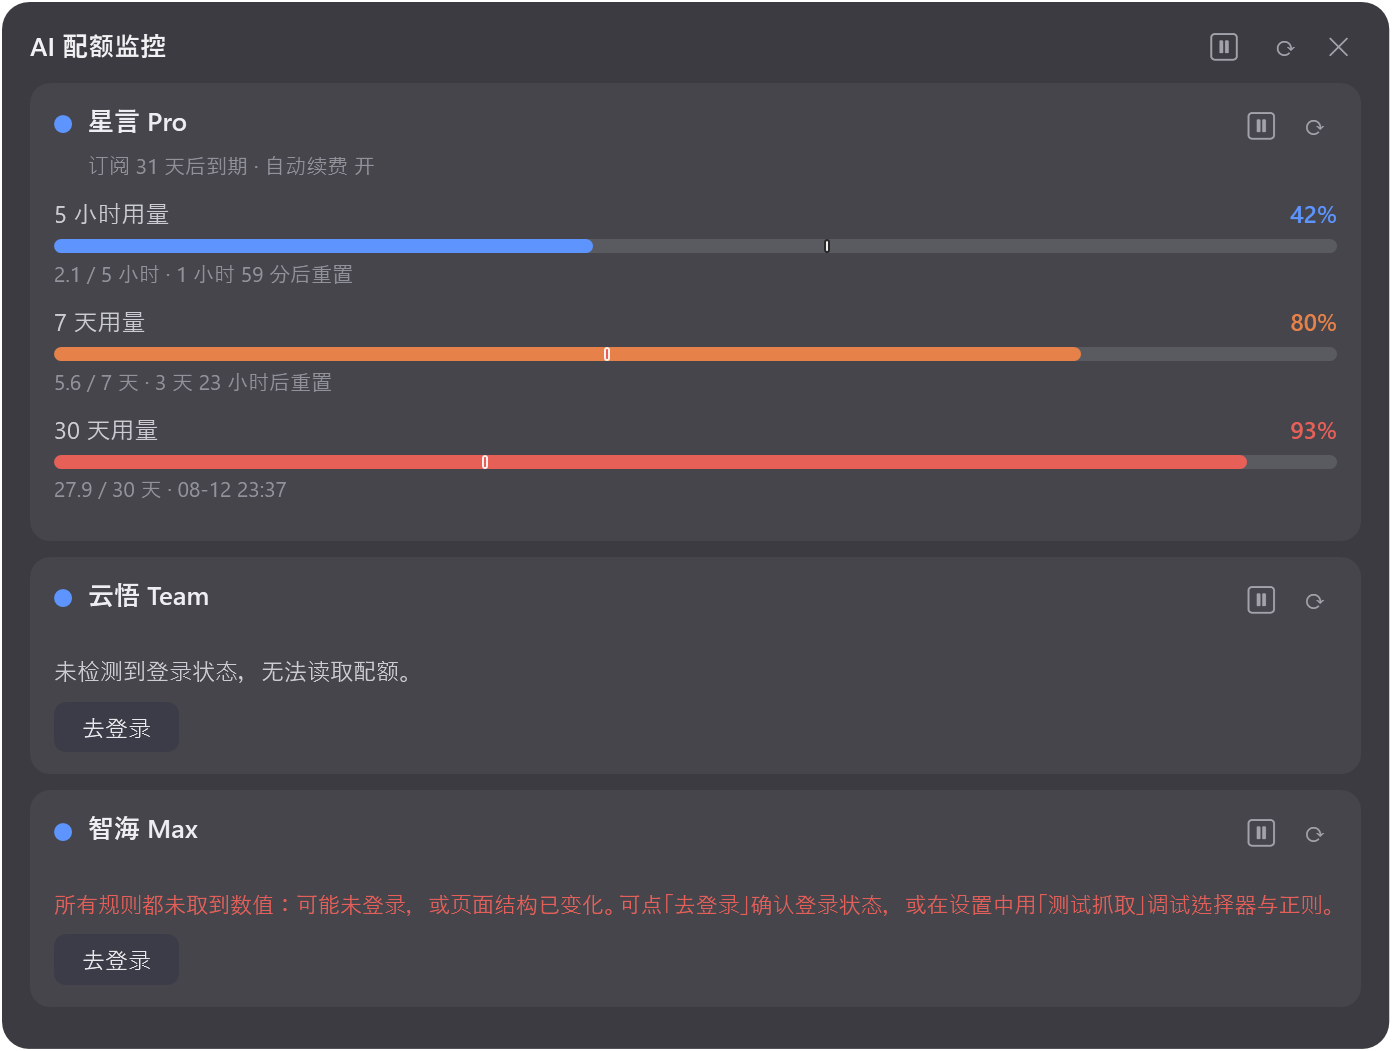
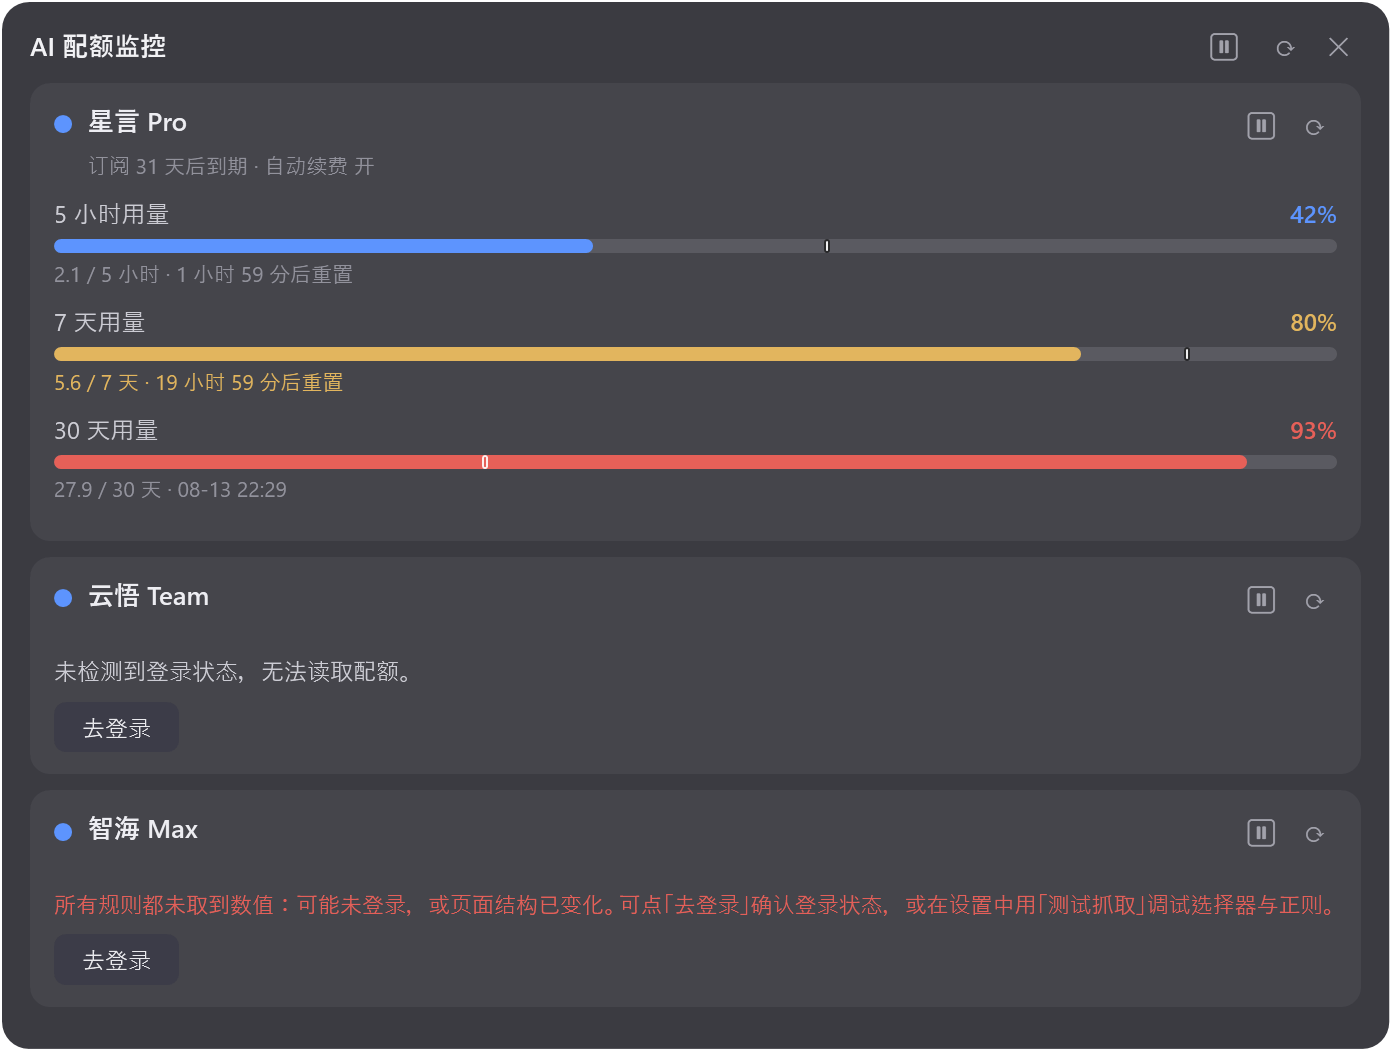
chore: MIT license, disclaimer, English summary, CI workflow
- Add MIT LICENSE
- README: disclaimer & compliance notes, English summary section
- GitHub Actions: build + self-contained publish + tag releases
- Refresh preview screenshot

Changed region(s): [[0.0309, 0.3045, 0.7723, 0.3958], [0.9267, 0.3045, 0.9576, 0.3349]]

diff --git a/app/ServiceCard.xaml.cs b/app/ServiceCard.xaml.cs
@@ -273,10 +273,19 @@ public partial class ServiceCard : UserControl
         };
         if (small != null)
         {
+            // 重置临近提醒：窗口大于 24 小时（7 天/30 天类）且重置时间已进入 24 小时内 → 黄色，
+            // 提醒用户窗口快重置、剩余额度尽快用。5 小时等短窗口恒 <24h，不参与以免长期黄色。
+            bool resetSoon = false;
+            if (rule.ResetAt is { } ra)
+            {
+                var windowHours = PaceBaseline.WindowHours(rule.Label);
+                resetSoon = ra > DateTime.Now.AddHours(-6) && ra <= DateTime.Now.AddHours(24) &&
+                            (windowHours == null || windowHours > 24);
+            }
             panel.Children.Add(new TextBlock
             {
                 Text = small,
-                Foreground = Ui.Brush("#8A8A95"),
+                Foreground = new SolidColorBrush(resetSoon ? theme.Near : (Color)ColorConverter.ConvertFromString("#8A8A95")),
                 FontSize = 10.5,
                 Margin = new Thickness(0, 3, 0, 0),
             });

diff --git a/app/TestShot.cs b/app/TestShot.cs
@@ -107,7 +107,7 @@ public static class TestShot
                 Rules = new List<RuleResult>
                 {
                     new() { Label = "5 小时用量", Percent = 42, Detail = "2.1 / 5 小时", ResetText = "2 小时后重置", ResetAt = DateTime.Now.AddHours(2) },
-                    new() { Label = "7 天用量", Percent = 80, Detail = "5.6 / 7 天", ResetText = "4 天后重置", ResetAt = DateTime.Now.AddDays(4) },
+                    new() { Label = "7 天用量", Percent = 80, Detail = "5.6 / 7 天", ResetText = "20 小时后重置", ResetAt = DateTime.Now.AddHours(20) },
                     new() { Label = "30 天用量", Percent = 93, Detail = "27.9 / 30 天", ResetText = "20 天后重置", ResetAt = DateTime.Now.AddDays(20) },
                 },
                 Subscription = new SubscriptionInfo { ExpireAt = DateTime.Now.AddDays(31), AutoRenew = true },
